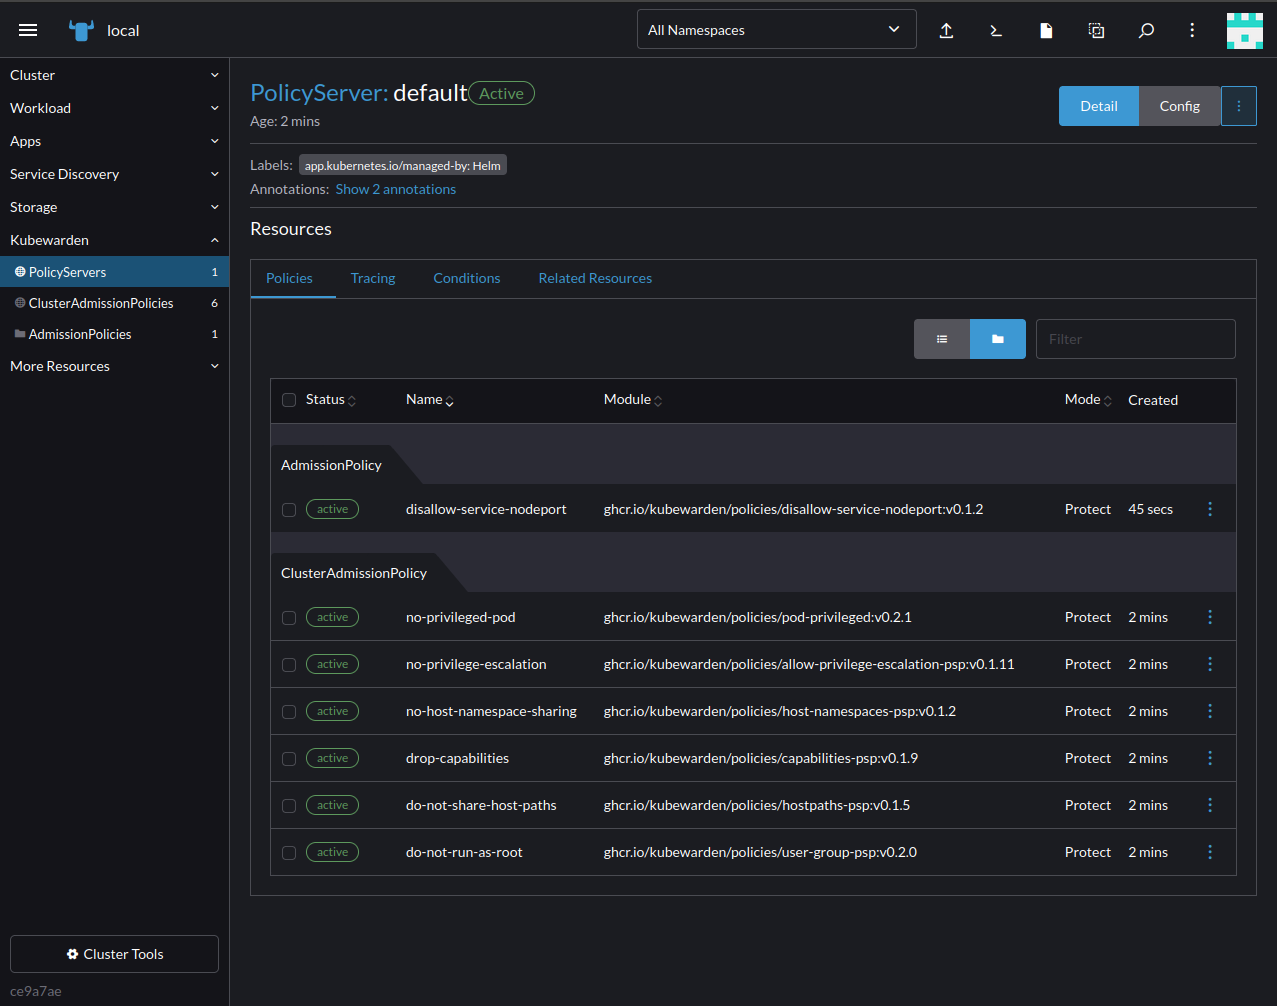
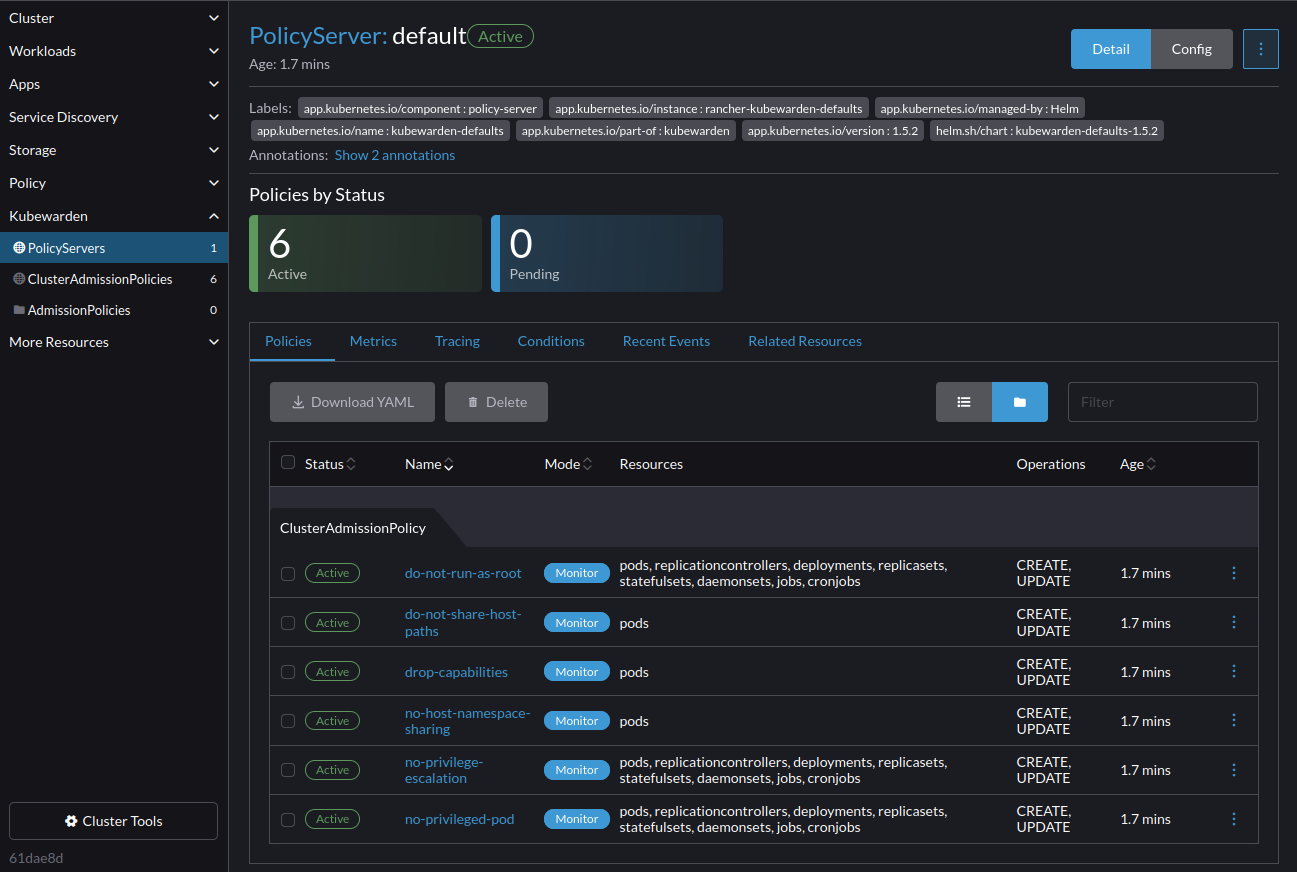
Update docs with new dashboard view, whitelist info, custom policy creation

diff --git a/docs/operator-manual/ui-extension/install.md b/docs/operator-manual/ui-extension/install.md
@@ -21,15 +21,41 @@ Within the Extensions page, click on the "Enable" button and select the option t
 
 Within your cluster a new menu item will appear in the side-menu for Kubewarden, this dashboard page will guide you through the installation process by completing some prerequisites.
 
+:::note
+During the "App Install" step of the installation wizard, the "Install Kubewarden" button may remain grayed out. If this is the case, just refresh the page and navigate back to this step. 
+:::
+
 ## Post-Installation
 
-After the installation is complete a few items will be listed under the Kubewarden menu, namely PolicyServers, ClusterAdmissionPolicies, and AdmissionPolicies. From here you can create Policy Servers and Policies to control behavior within your cluster.
+After the installation is complete the dashboard page and side menu will contain new items, namely Policy Servers, Cluster Admission Policies, and Admission Policies. From here you can create Policy Servers and Policies to control behavior within your cluster.
+
+___Dashboard view___
+![UI Dashboard](/img/ui_dashboard.png)
+
+### Enabling the default Policy Server and policies
+
+Within the dashboard page you can follow the "Install Chart" button to install the [`kubewarden-defaults`](https://github.com/kubewarden/helm-charts/tree/main/charts/kubewarden-defaults) Helm chart, which includes the default Policy Server and a few currated policies.
+
+After installing the chart you can view the default Policy Server details with the related policies in a sortable table.  
 
 ___Policy Server detail view___
 ![UI PolicyServer Detail](/img/ui_policyserver_detail.png)
 
-___Admission Policy creation view___
+### Creating Policies
+
+When creating policies you will initially be given a "Custom Policy" option from the Policy Grid. Provide the required information for your policy's Name, Module, and Rules.
+
+___Creating a custom policy___ 
+![UI Policy Whitelist](/img/ui_policy_custom.png)
+
+If you wish to leverage policies from [ArtifactHub](https://artifacthub.io/packages/search?kind=13) you will need to add `artifacthub.io` to the `management.cattle.io.settings/whitelist-domain` setting. This allows your Rancher instance to retieve package information from ArtifactHub. Use the "Add ArtifactHub To Whitelist" button to automatically add the domain, the Policy Grid will refresh with the fetched policies.  
+
+___ArtifactHub whitelist banner___ 
+![UI Policy Whitelist](/img/ui_policy_whitelist.png)
+
+___Policy Grid___
 ![UI Policy Create](/img/ui_policy_create.png)
+
 
 ### Additional Features
 

diff --git a/docs/operator-manual/ui-extension/metrics.md b/docs/operator-manual/ui-extension/metrics.md
@@ -2,6 +2,10 @@
 
 Rancher has a Cluster Tool for Monitoring that leverages Grafana and Prometheus. You can utilize this tool and integrate it with Kubewarden to view overall metrics for a Policy Server or metrics pertaining to a given policy.
 
+:::warning
+Issues with Rancher Manager `v2.7.1` can cause issues with the Metrics dashboard view. Version `v2.7.2` or greater is recommended.  
+:::
+
 :::caution
 You will need a cluster with at least 4 cores to install the Monitoring tool.
 :::
